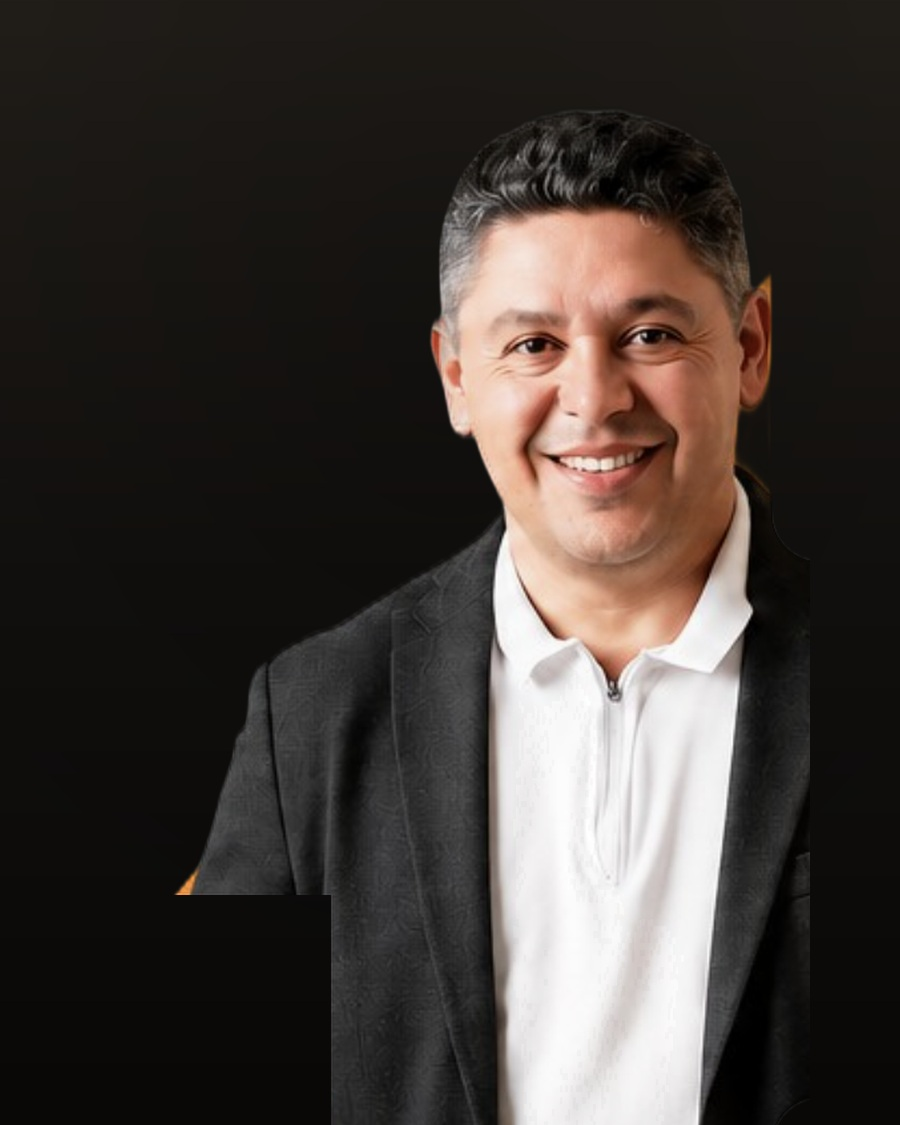
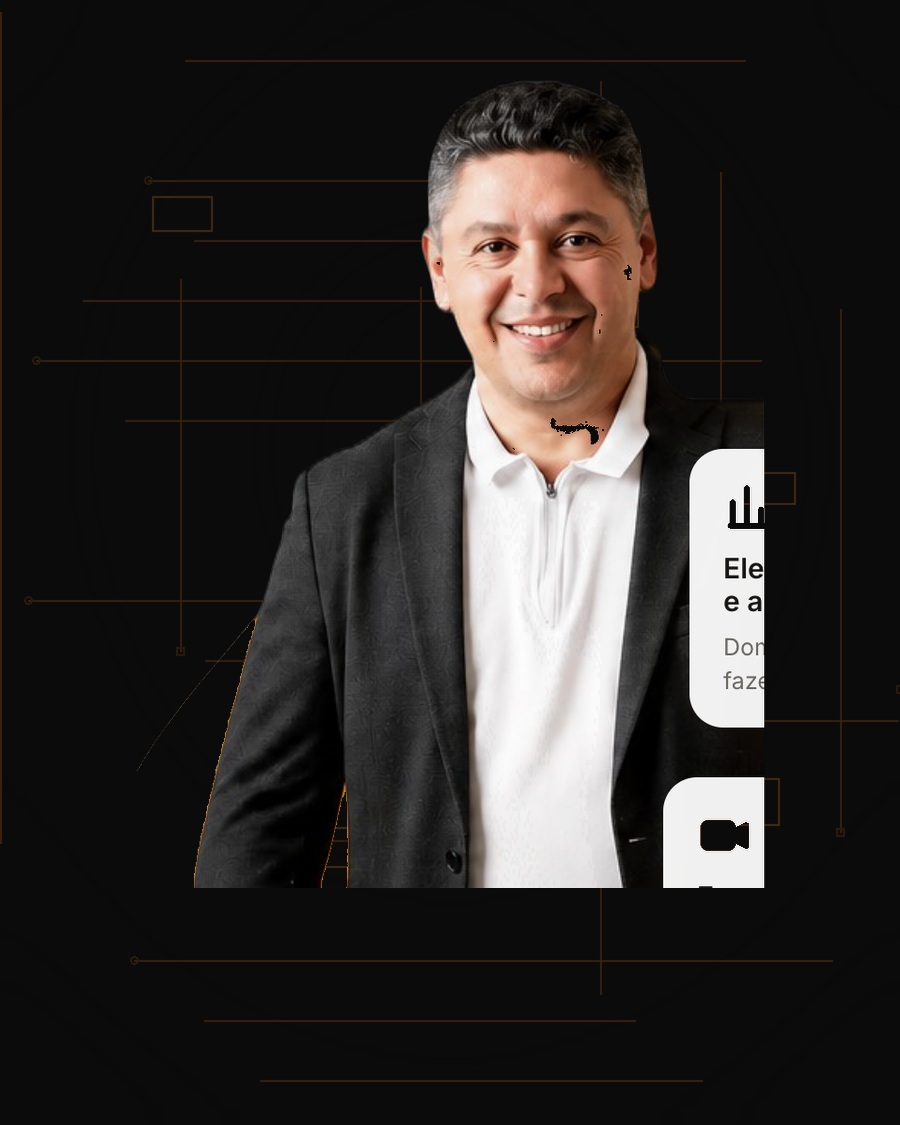
Add files via upload

diff --git a/index.html b/index.html
@@ -133,6 +133,18 @@
   </div>
 </header>
 
+<div class="cat-quicknav">
+  <div class="wrap cat-quicknav-inner">
+    <a href="cursos.html?cat=Televisores">Televisores</a>
+    <a href="cursos.html?cat=Fontes%20Chaveadas">Fontes Chaveadas</a>
+    <a href="cursos.html?cat=Tecnologias%20Inverter">Tecnologias Inverter</a>
+    <a href="cursos.html?cat=Eletrônica">Eletrônica</a>
+    <a href="cursos.html?cat=Amplificadores">Amplificadores</a>
+    <a href="cursos.html?cat=Odonto%20Médico">Odonto Médico</a>
+    <a href="cursos.html">Ver tudo</a>
+  </div>
+</div>
+
 <section class="promo-mega-hero">
   <div class="wrap">
     <div class="promo-mega-badge">🔥 Lançamento oficial</div>
@@ -163,7 +175,7 @@
       <p>Todo curso da Instructiva já vem com isso incluso, sem custo extra.</p>
     </div>
     <div class="value-grid">
-      <div class="value-card"><div class="num">01</div><h4>Certificado reconhecido</h4><p>Todo curso emite certificado de conclusão pra você usar no currículo.</p></div><div class="value-card"><div class="num">02</div><h4>Acesso vitalício</h4><p>Assista quantas vezes quiser, no seu ritmo, sem prazo de expiração.</p></div><div class="value-card"><div class="num">03</div><h4>Aulas ao vivo mensais</h4><p>Encontros com os professores pra tirar dúvida e destravar reparo difícil.</p></div><div class="value-card"><div class="num">04</div><h4>Suporte direto</h4><p>Fale com professores e outros alunos pra resolver o defeito que travou.</p></div>
+      <div class="value-card value-card-highlight"><div class="num">01</div><h4>Acesso vitalício</h4><p>Assista quantas vezes quiser, pro resto da vida, sem prazo de expiração — o curso é seu.</p></div><div class="value-card"><div class="num">02</div><h4>Certificado reconhecido</h4><p>Todo curso emite certificado de conclusão pra você usar no currículo.</p></div><div class="value-card"><div class="num">03</div><h4>Suporte direto</h4><p>Fale com professores e outros alunos pra resolver o defeito que travou.</p></div><div class="value-card"><div class="num">04</div><h4>Atualizações inclusas</h4><p>Quando o curso ganha conteúdo novo, você recebe de graça, sem pagar de novo.</p></div>
     </div>
   </div>
 </section>
@@ -204,44 +216,79 @@
       <p>Clique na categoria que você quer dominar e veja todos os cursos daquela área.</p>
     </div>
     <div class="cat-grid">
-      <a class="cat-card" href="cursos.html?cat=Televisores">
-        <div class="cat-icon"><svg viewBox="0 0 24 24"><rect x="3" y="4" width="18" height="12" rx="1.5"/><path d="M9 20 h6 M12 16 v4"/></svg></div>
-        <h3>Televisores</h3>
-        <div class="cat-meta"><span>1 curso</span><span class="cat-price">a partir de R$ 1.497,00</span></div>
-      </a><a class="cat-card" href="cursos.html?cat=Fontes%20Chaveadas">
-        <div class="cat-icon"><svg viewBox="0 0 24 24"><path d="M3 12 h4 l2 -7 l4 14 l2 -7 h6"/></svg></div>
-        <h3>Fontes Chaveadas</h3>
-        <div class="cat-meta"><span>4 cursos</span><span class="cat-price">a partir de R$ 397,00</span></div>
-      </a><a class="cat-card" href="cursos.html?cat=Tecnologias%20Inverter">
-        <div class="cat-icon"><svg viewBox="0 0 24 24"><circle cx="12" cy="12" r="5"/><path d="M12 3 v3 M12 18 v3 M3 12 h3 M18 12 h3"/></svg></div>
-        <h3>Tecnologias Inverter</h3>
-        <div class="cat-meta"><span>2 cursos</span><span class="cat-price">a partir de R$ 997,00</span></div>
-      </a><a class="cat-card" href="cursos.html?cat=Eletr%C3%B4nica">
-        <div class="cat-icon"><svg viewBox="0 0 24 24"><rect x="4" y="4" width="16" height="16" rx="1.5"/><circle cx="9" cy="9" r="1.2"/><circle cx="15" cy="9" r="1.2"/><circle cx="9" cy="15" r="1.2"/><circle cx="15" cy="15" r="1.2"/></svg></div>
-        <h3>Eletrônica</h3>
-        <div class="cat-meta"><span>7 cursos</span><span class="cat-price">a partir de R$ 397,00</span></div>
-      </a><a class="cat-card" href="cursos.html?cat=Amplificadores">
-        <div class="cat-icon"><svg viewBox="0 0 24 24"><path d="M4 15 v-6 l5 -4 v14 l-5 -4 Z"/><path d="M14 9 a5 5 0 0 1 0 6 M17 6 a9 9 0 0 1 0 12"/></svg></div>
-        <h3>Amplificadores</h3>
-        <div class="cat-meta"><span>1 curso</span><span class="cat-price">a partir de R$ 1.497,00</span></div>
-      </a><a class="cat-card" href="cursos.html?cat=Ind%C3%BAstria">
-        <div class="cat-icon"><svg viewBox="0 0 24 24"><path d="M3 21 h18 M5 21 V10 l5 4 V10 l5 4 V10 l4 3 v8"/></svg></div>
-        <h3>Indústria</h3>
-        <div class="cat-meta"><span>1 curso</span><span class="cat-price">a partir de R$ 1.697,00</span></div>
-      </a><a class="cat-card" href="cursos.html?cat=Inversor%20Solar">
-        <div class="cat-icon"><svg viewBox="0 0 24 24"><circle cx="12" cy="9" r="3.5"/><path d="M12 2 v2 M12 14 v2 M5 5 l1.5 1.5 M17.5 5 l-1.5 1.5 M3 9 h2 M19 9 h2"/><rect x="4" y="17" width="16" height="4" rx="1"/></svg></div>
-        <h3>Inversor Solar</h3>
-        <div class="cat-meta"><span>1 curso</span><span class="cat-price">a partir de R$ 1.697,00</span></div>
-      </a><a class="cat-card" href="cursos.html?cat=Academia">
-        <div class="cat-icon"><svg viewBox="0 0 24 24"><rect x="2" y="10" width="4" height="4"/><rect x="18" y="10" width="4" height="4"/><path d="M6 12 h12 M8 8 v8 M16 8 v8"/></svg></div>
-        <h3>Academia</h3>
-        <div class="cat-meta"><span>1 curso</span><span class="cat-price">a partir de R$ 1.697,00</span></div>
-      </a><a class="cat-card" href="cursos.html?cat=Odonto%20M%C3%A9dico">
-        <div class="cat-icon"><svg viewBox="0 0 24 24"><path d="M12 3c-3 0-5 2-5 5 0 3 1 5 1.5 8 .3 1.7 1 2 1.5 2s1-1 1.5-3 .8-3 1.5-3 1 1.3 1.5 3 1 3 1.5 3 1.2-.3 1.5-2c.5-3 1.5-5 1.5-8 0-3-2-5-5-5Z"/></svg></div>
-        <h3>Odonto Médico</h3>
-        <div class="cat-meta"><span>1 curso</span><span class="cat-price">a partir de R$ 2.497,00</span></div>
+      <a class="cat-card" href="cursos.html?cat=Televisores" style="background-image:url('assets/img/cursos/televisores.jpg');">
+        <div class="cat-card-overlay"></div>
+        <img class="cat-card-logo" src="assets/img/logo-instructiva.png" alt="">
+        <div class="cat-card-content">
+          <h3>Televisores</h3>
+          <div class="cat-meta"><span>1 curso</span><span class="cat-price">a partir de R$ 1.497,00</span></div>
+        </div>
       </a>
-    </div>
+      <a class="cat-card" href="cursos.html?cat=Fontes%20Chaveadas" style="background-image:url('assets/img/cursos/fontes-chaveadas.jpg');">
+        <div class="cat-card-overlay"></div>
+        <img class="cat-card-logo" src="assets/img/logo-instructiva.png" alt="">
+        <div class="cat-card-content">
+          <h3>Fontes Chaveadas</h3>
+          <div class="cat-meta"><span>4 cursos</span><span class="cat-price">a partir de R$ 397,00</span></div>
+        </div>
+      </a>
+      <a class="cat-card" href="cursos.html?cat=Tecnologias%20Inverter" style="background-image:url('assets/img/cursos/tecnologias-inverter.jpg');">
+        <div class="cat-card-overlay"></div>
+        <img class="cat-card-logo" src="assets/img/logo-instructiva.png" alt="">
+        <div class="cat-card-content">
+          <h3>Tecnologias Inverter</h3>
+          <div class="cat-meta"><span>2 cursos</span><span class="cat-price">a partir de R$ 997,00</span></div>
+        </div>
+      </a>
+      <a class="cat-card" href="cursos.html?cat=Eletr%C3%B4nica" style="background-image:url('assets/img/cursos/emac.jpg');">
+        <div class="cat-card-overlay"></div>
+        <img class="cat-card-logo" src="assets/img/logo-instructiva.png" alt="">
+        <div class="cat-card-content">
+          <h3>Eletrônica</h3>
+          <div class="cat-meta"><span>7 cursos</span><span class="cat-price">a partir de R$ 397,00</span></div>
+        </div>
+      </a>
+      <a class="cat-card" href="cursos.html?cat=Amplificadores" style="background-image:url('assets/img/cursos/amplificadores-de-audio.jpg');">
+        <div class="cat-card-overlay"></div>
+        <img class="cat-card-logo" src="assets/img/logo-instructiva.png" alt="">
+        <div class="cat-card-content">
+          <h3>Amplificadores</h3>
+          <div class="cat-meta"><span>1 curso</span><span class="cat-price">a partir de R$ 1.497,00</span></div>
+        </div>
+      </a>
+      <a class="cat-card" href="cursos.html?cat=Ind%C3%BAstria" style="background-image:url('assets/img/cursos/softstarter.jpg');">
+        <div class="cat-card-overlay"></div>
+        <img class="cat-card-logo" src="assets/img/logo-instructiva.png" alt="">
+        <div class="cat-card-content">
+          <h3>Indústria</h3>
+          <div class="cat-meta"><span>1 curso</span><span class="cat-price">a partir de R$ 1.697,00</span></div>
+        </div>
+      </a>
+      <a class="cat-card" href="cursos.html?cat=Inversor%20Solar" style="background-image:url('assets/img/cursos/inversores-solares.jpg');">
+        <div class="cat-card-overlay"></div>
+        <img class="cat-card-logo" src="assets/img/logo-instructiva.png" alt="">
+        <div class="cat-card-content">
+          <h3>Inversor Solar</h3>
+          <div class="cat-meta"><span>1 curso</span><span class="cat-price">a partir de R$ 1.697,00</span></div>
+        </div>
+      </a>
+      <a class="cat-card" href="cursos.html?cat=Academia" style="background-image:url('assets/img/cursos/esteira-de-academias.jpg');">
+        <div class="cat-card-overlay"></div>
+        <img class="cat-card-logo" src="assets/img/logo-instructiva.png" alt="">
+        <div class="cat-card-content">
+          <h3>Academia</h3>
+          <div class="cat-meta"><span>1 curso</span><span class="cat-price">a partir de R$ 1.697,00</span></div>
+        </div>
+      </a>
+      <a class="cat-card" href="cursos.html?cat=Odonto%20M%C3%A9dico" style="background-image:url('assets/img/cursos/odonto-esteticos.jpg');">
+        <div class="cat-card-overlay"></div>
+        <img class="cat-card-logo" src="assets/img/logo-instructiva.png" alt="">
+        <div class="cat-card-content">
+          <h3>Odonto Médico</h3>
+          <div class="cat-meta"><span>1 curso</span><span class="cat-price">a partir de R$ 2.497,00</span></div>
+        </div>
+      </a>
+    </div></div>
   </div>
 </section>
 
@@ -285,7 +332,9 @@
       <div class="eyebrow">Quem já fez</div>
       <h2>35 mil alunos já passaram pela bancada.</h2>
     </div>
-    <div class="testis">
+  </div>
+  <div class="testi-track-wrap">
+    <div class="testi-track">
       <div class="testi">
         <div class="stars">★★★★★</div>
         <p>O curso de eletrônica básica foi um divisor de águas. Hoje sigo bem mais confiante pra evoluir nos cursos avançados.</p>
@@ -301,14 +350,69 @@
         <p>Metodologia direta e prática. Consegui aplicar o que aprendi na minha bancada já nas primeiras semanas de curso.</p>
         <div class="who"><div class="avatar">TF</div><div class="who-info"><strong>Thiago F.</strong><p>Fontes Chaveadas</p></div></div>
       </div>
+      <div class="testi">
+        <div class="stars">★★★★★</div>
+        <p>Comprei o curso de inversores solares sem saber quase nada e hoje já fecho serviço particular no meu bairro. Mudou minha renda.</p>
+        <div class="who"><div class="avatar">RP</div><div class="who-info"><strong>Rodrigo P.</strong><p>Inversores Solares</p></div></div>
+      </div>
+      <div class="testi">
+        <div class="stars">★★★★★</div>
+        <p>O suporte respondeu rápido quando travei num defeito complicado. Isso fez toda diferença pra eu não desistir no meio.</p>
+        <div class="who"><div class="avatar">CA</div><div class="who-info"><strong>Carla A.</strong><p>Manutenção de Esteiras</p></div></div>
+      </div>
+      <div class="testi">
+        <div class="stars">★★★★★</div>
+        <p>Já tinha feito outros cursos soltos na internet, mas nenhum tão completo e direto ao ponto quanto o da Instructiva.</p>
+        <div class="who"><div class="avatar">EL</div><div class="who-info"><strong>Eduardo L.</strong><p>EMAC</p></div></div>
+      </div>
+      <div class="testi">
+        <div class="stars">★★★★★</div>
+        <p>O curso de eletrônica básica foi um divisor de águas. Hoje sigo bem mais confiante pra evoluir nos cursos avançados.</p>
+        <div class="who"><div class="avatar">MR</div><div class="who-info"><strong>Marcos R.</strong><p>Eletrônica Inicial</p></div></div>
+      </div>
+      <div class="testi">
+        <div class="stars">★★★★★</div>
+        <p>Professor Celso explica muito bem, relembrei matérias que achava que tinha esquecido da faculdade. Vale cada centavo.</p>
+        <div class="who"><div class="avatar">JS</div><div class="who-info"><strong>Julia S.</strong><p>Eletrônica de Potência</p></div></div>
+      </div>
+      <div class="testi">
+        <div class="stars">★★★★★</div>
+        <p>Metodologia direta e prática. Consegui aplicar o que aprendi na minha bancada já nas primeiras semanas de curso.</p>
+        <div class="who"><div class="avatar">TF</div><div class="who-info"><strong>Thiago F.</strong><p>Fontes Chaveadas</p></div></div>
+      </div>
+      <div class="testi">
+        <div class="stars">★★★★★</div>
+        <p>Comprei o curso de inversores solares sem saber quase nada e hoje já fecho serviço particular no meu bairro. Mudou minha renda.</p>
+        <div class="who"><div class="avatar">RP</div><div class="who-info"><strong>Rodrigo P.</strong><p>Inversores Solares</p></div></div>
+      </div>
+      <div class="testi">
+        <div class="stars">★★★★★</div>
+        <p>O suporte respondeu rápido quando travei num defeito complicado. Isso fez toda diferença pra eu não desistir no meio.</p>
+        <div class="who"><div class="avatar">CA</div><div class="who-info"><strong>Carla A.</strong><p>Manutenção de Esteiras</p></div></div>
+      </div>
+      <div class="testi">
+        <div class="stars">★★★★★</div>
+        <p>Já tinha feito outros cursos soltos na internet, mas nenhum tão completo e direto ao ponto quanto o da Instructiva.</p>
+        <div class="who"><div class="avatar">EL</div><div class="who-info"><strong>Eduardo L.</strong><p>EMAC</p></div></div>
+      </div>
     </div>
   </div>
+
 </section>
 
 <section>
   <div class="wrap">
     <div class="guarantee-banner">
-      <div class="badge">7 DIAS<br>GARANTIA</div>
+      <div class="seal-graphic">
+        <svg viewBox="0 0 200 200">
+          <circle cx="100" cy="100" r="92" fill="var(--black)"/>
+          <circle cx="100" cy="100" r="92" fill="none" stroke="var(--orange)" stroke-width="3" stroke-dasharray="6 4"/>
+          <circle cx="100" cy="100" r="74" fill="none" stroke="var(--orange)" stroke-width="1.5"/>
+          <text x="100" y="72" text-anchor="middle" fill="#fff" font-family="Manrope, sans-serif" font-weight="800" font-size="15">7 DIAS</text>
+          <text x="100" y="108" text-anchor="middle" fill="var(--orange)" font-family="Manrope, sans-serif" font-weight="800" font-size="26">★</text>
+          <text x="100" y="138" text-anchor="middle" fill="#fff" font-family="Manrope, sans-serif" font-weight="800" font-size="15">GARANTIA</text>
+        </svg>
+      </div>
       <div>
         <h3>Risco zero pra você começar.</h3>
         <p>Se em até 7 dias você sentir que não é pra você, devolvemos 100% do valor, sem perguntas e sem burocracia.</p>
@@ -342,6 +446,18 @@
 <div class="faq-item">
         <button class="faq-q"><span>E se eu não gostar do curso?</span><span class="faq-icon">+</span></button>
         <div class="faq-a"><p>Você conta com garantia de satisfação de 7 dias. Se não se adaptar, é só pedir o reembolso, sem burocracia.</p></div>
+      </div>
+<div class="faq-item">
+        <button class="faq-q"><span>O acesso realmente não expira?</span><span class="faq-icon">+</span></button>
+        <div class="faq-a"><p>Isso mesmo. Depois de matriculado, o curso é seu pra sempre — você pode assistir quantas vezes quiser, quando quiser, sem prazo de validade.</p></div>
+      </div>
+<div class="faq-item">
+        <button class="faq-q"><span>Quanto tempo leva pra concluir um curso?</span><span class="faq-icon">+</span></button>
+        <div class="faq-a"><p>Varia de pessoa pra pessoa, já que você estuda no seu próprio ritmo. Muitos alunos concluem os módulos principais em poucas semanas, dedicando algumas horas por semana.</p></div>
+      </div>
+<div class="faq-item">
+        <button class="faq-q"><span>Preciso de equipamento pra praticar?</span><span class="faq-icon">+</span></button>
+        <div class="faq-a"><p>Não é obrigatório pra acompanhar as aulas, mas recomendamos ter um multímetro básico pra já ir aplicando o que aprende. Indicamos os equipamentos certos dentro do curso.</p></div>
       </div></div>
   </div>
 </section>

diff --git a/css/style.css b/css/style.css
@@ -111,17 +111,6 @@ section{ padding:76px 0; position:relative; }
 .cat-grid{ display:grid; grid-template-columns:repeat(3,1fr); gap:18px; }
 @media (max-width:860px){ .cat-grid{ grid-template-columns:repeat(2,1fr); } }
 @media (max-width:560px){ .cat-grid{ grid-template-columns:1fr; } }
-.cat-card{
-  background:var(--paper); border:2px solid var(--orange); border-radius:14px;
-  padding:28px 22px; transition:all .18s ease; display:block; text-align:center;
-  box-shadow:0 4px 0 var(--orange), 0 14px 30px -18px rgba(249,115,22,.35);
-}
-.cat-card:hover{ transform:translateY(-4px); box-shadow:0 8px 0 var(--orange), 0 22px 40px -18px rgba(249,115,22,.45); }
-.cat-card .cat-icon{ width:56px; height:56px; margin:0 auto 16px; }
-.cat-card .cat-icon svg{ width:100%; height:100%; stroke:var(--orange); stroke-width:1.6; fill:none; }
-.cat-card h3{ font-family:'Manrope',sans-serif; font-weight:800; font-size:16px; color:var(--black); margin-bottom:14px; }
-.cat-card .cat-meta{ display:flex; align-items:center; justify-content:center; border-top:1px solid var(--line); padding-top:14px; font-size:12.5px; color:var(--muted); gap:8px; flex-wrap:wrap; font-weight:600; }
-.cat-card .cat-price{ color:var(--orange-deep); font-weight:800; }
 
 .course-grid{ display:grid; grid-template-columns:repeat(3,1fr); gap:20px; }
 @media (max-width:860px){ .course-grid{ grid-template-columns:repeat(2,1fr); } }
@@ -194,9 +183,12 @@ section{ padding:76px 0; position:relative; }
 .flow-node h3{ font-size:16px; font-weight:800; margin-bottom:8px; color:#fff; }
 .flow-node p{ font-size:13.8px; color:#D8D8D2; line-height:1.55; }
 
-.testis{ display:grid; grid-template-columns:repeat(3,1fr); gap:20px; }
-@media (max-width:860px){ .testis{ grid-template-columns:1fr; } }
-.testi{ background:var(--paper); border:1px solid var(--line); border-radius:14px; padding:26px 24px; box-shadow:0 8px 24px -18px rgba(0,0,0,.15); }
+.testi-track-wrap{ overflow:hidden; padding:8px 0 12px; -webkit-mask-image:linear-gradient(90deg, transparent, #000 6%, #000 94%, transparent); mask-image:linear-gradient(90deg, transparent, #000 6%, #000 94%, transparent); }
+.testi-track{ display:flex; gap:22px; width:max-content; animation:testiScroll 42s linear infinite; }
+.testi-track:hover{ animation-play-state:paused; }
+@keyframes testiScroll{ from{ transform:translateX(0); } to{ transform:translateX(-50%); } }
+.testi{ background:var(--paper); border:1px solid var(--line); border-radius:14px; padding:28px 26px; box-shadow:0 8px 24px -18px rgba(0,0,0,.15); width:340px; flex:0 0 auto; }
+.testi:nth-child(3n+1){ width:380px; }
 .testi .stars{ color:#F5A623; font-size:14px; letter-spacing:2px; margin-bottom:14px; }
 .testi p{ font-size:14.5px; color:var(--ink); line-height:1.6; margin-bottom:18px; }
 .testi .who{ display:flex; align-items:center; gap:10px; }
@@ -216,7 +208,7 @@ section{ padding:76px 0; position:relative; }
 .faq-icon{ font-size:20px; color:var(--orange); flex:0 0 auto; transition:transform .2s ease; width:20px; text-align:center; font-weight:800; }
 .faq-item.open .faq-icon{ transform:rotate(45deg); }
 .faq-a{ max-height:0; overflow:hidden; transition:max-height .25s ease; }
-.faq-item.open .faq-a{ max-height:220px; }
+.faq-item.open .faq-a{ max-height:320px; }
 .faq-a p{ font-size:14.5px; color:var(--muted); line-height:1.65; padding-bottom:22px; max-width:640px; }
 
 .cta-band{ background:var(--orange); color:#fff; padding:64px 0; text-align:center; }
@@ -274,7 +266,7 @@ footer{ padding:52px 0 28px; border-top:1px solid var(--line); background:var(--
 
 .promo-mega-hero{
   background:linear-gradient(135deg, var(--black) 0%, var(--black-2) 100%);
-  padding:44px 0; text-align:center; position:relative; overflow:hidden;
+  padding:56px 0; text-align:left; position:relative; overflow:hidden;
 }
 .promo-mega-hero::before{
   content:""; position:absolute; inset:0;
@@ -290,12 +282,12 @@ footer{ padding:52px 0 28px; border-top:1px solid var(--line); background:var(--
   text-transform:uppercase; letter-spacing:.02em;
 }
 .promo-mega-hero h2{
-  font-family:'Manrope',sans-serif; font-weight:800; font-size:clamp(24px,3.6vw,40px);
-  color:#fff; line-height:1.15; margin-bottom:14px; max-width:800px; margin-left:auto; margin-right:auto;
+  font-family:'Manrope',sans-serif; font-weight:800; font-size:clamp(26px,3.8vw,44px);
+  color:#fff; line-height:1.12; margin-bottom:14px; max-width:520px;
 }
 .promo-mega-hero h2 em{ font-style:normal; color:var(--orange); }
-.promo-mega-hero > .wrap > p{
-  font-size:15.5px; color:#D8D8D2; max-width:620px; margin:0 auto 28px; line-height:1.55; font-family:'Inter',sans-serif;
+.promo-hero-copy p{
+  font-size:15.5px; color:#D8D8D2; max-width:460px; margin-bottom:28px; line-height:1.55; font-family:'Inter',sans-serif;
 }
 .promo-mega-cta{ font-size:16px; padding:17px 38px; }
 
@@ -375,3 +367,67 @@ footer{ padding:52px 0 28px; border-top:1px solid var(--line); background:var(--
 .wa-submit-btn:hover:not(:disabled){ background:var(--orange-deep); transform:translateY(-1px); }
 .wa-submit-btn:disabled{ opacity:.4; cursor:not-allowed; }
 .wa-fine-print{ font-size:11.5px; color:var(--muted-2); margin-top:14px; text-align:center; font-family:'Inter',sans-serif; line-height:1.5; }
+
+
+/* ===== HERO SPLIT: foto + aneis decorativos + selo ===== */
+.promo-hero-split{ display:grid; grid-template-columns:1.1fr .9fr; gap:40px; align-items:center; }
+@media (max-width:900px){ .promo-hero-split{ grid-template-columns:1fr; } }
+.promo-hero-photo{ position:relative; display:flex; align-items:center; justify-content:center; min-height:320px; }
+@media (max-width:900px){ .promo-hero-photo{ margin-top:20px; } }
+.photo-ring{ position:absolute; border-radius:50%; border:2px solid rgba(249,115,22,.35); }
+.ring-1{ width:340px; height:340px; }
+.ring-2{ width:400px; height:400px; border-color:rgba(249,115,22,.2); }
+.ring-3{ width:460px; height:460px; border-color:rgba(255,255,255,.08); }
+@media (max-width:520px){ .ring-1{width:240px;height:240px;} .ring-2{width:290px;height:290px;} .ring-3{width:340px;height:340px;} }
+.prof-photo-hero{
+  position:relative; z-index:1; width:280px; height:350px; object-fit:cover;
+  border-radius:20px; border:4px solid var(--orange);
+  box-shadow:0 24px 50px -16px rgba(0,0,0,.5);
+}
+@media (max-width:520px){ .prof-photo-hero{ width:220px; height:275px; } }
+.seal-badge{
+  position:absolute; bottom:-6px; right:calc(50% - 160px); z-index:2;
+  width:92px; height:92px; border-radius:50%; background:var(--orange); color:#fff;
+  display:flex; flex-direction:column; align-items:center; justify-content:center;
+  box-shadow:0 10px 24px -8px rgba(0,0,0,.5); border:3px solid #fff;
+  font-family:'Manrope',sans-serif; transform:rotate(-8deg);
+}
+@media (max-width:520px){ .seal-badge{ right:calc(50% - 125px); width:74px; height:74px; } }
+.seal-badge .seal-top{ font-size:11px; font-weight:800; text-transform:uppercase; letter-spacing:.02em; }
+.seal-badge .seal-mid{ font-size:16px; line-height:1; margin:2px 0; }
+.seal-badge .seal-bottom{ font-size:10px; font-weight:700; text-transform:uppercase; }
+
+/* ===== BARRA DE CATEGORIAS RAPIDAS (abaixo do header) ===== */
+.cat-quicknav{ background:var(--black); border-bottom:2px solid var(--orange); overflow-x:auto; }
+.cat-quicknav-inner{ display:flex; gap:0; white-space:nowrap; }
+.cat-quicknav-inner a{
+  font-family:'Inter',sans-serif; font-weight:700; font-size:13px; color:#fff;
+  padding:12px 18px; border-right:1px solid rgba(255,255,255,.1); transition:background .15s ease;
+  flex:0 0 auto;
+}
+.cat-quicknav-inner a:hover{ background:var(--orange); }
+.cat-quicknav-inner a:last-child{ color:var(--orange); border-right:none; }
+
+.value-card-highlight{ background:var(--black); border-color:var(--black); }
+.value-card-highlight .num{ color:var(--orange); }
+.value-card-highlight h4{ color:#fff; }
+.value-card-highlight p{ color:#D8D8D2; }
+
+/* ===== CARDS DE CATEGORIA COM FOTO CHEIA (estilo 3D/profissional) ===== */
+.cat-card{
+  position:relative; aspect-ratio:4/5; border-radius:16px; overflow:hidden;
+  background-size:cover; background-position:center;
+  border:none; box-shadow:0 4px 0 var(--orange), 0 16px 32px -16px rgba(0,0,0,.4);
+  display:flex; flex-direction:column; justify-content:flex-end; padding:0;
+  transition:transform .18s ease, box-shadow .18s ease;
+}
+.cat-card:hover{ transform:translateY(-5px); box-shadow:0 8px 0 var(--orange), 0 24px 44px -16px rgba(0,0,0,.5); }
+.cat-card-overlay{ position:absolute; inset:0; background:linear-gradient(180deg, rgba(0,0,0,0.05) 0%, rgba(0,0,0,0.85) 100%); }
+.cat-card-logo{ position:absolute; top:16px; right:16px; width:30px; height:30px; object-fit:contain; z-index:1; filter:brightness(0) invert(1); opacity:.85; }
+.cat-card-content{ position:relative; z-index:1; padding:22px; text-align:left; }
+.cat-card-content h3{ font-family:'Manrope',sans-serif; font-weight:800; font-size:19px; color:#fff; margin-bottom:10px; }
+.cat-card .cat-meta{ display:flex; align-items:center; justify-content:space-between; border-top:1px solid rgba(255,255,255,.25); padding-top:12px; font-size:12px; color:#D8D8D2; gap:8px; flex-wrap:wrap; font-weight:600; }
+.cat-card .cat-price{ color:var(--orange); font-weight:800; }
+
+.seal-graphic{ width:120px; height:120px; flex:0 0 auto; }
+.seal-graphic svg{ width:100%; height:100%; }